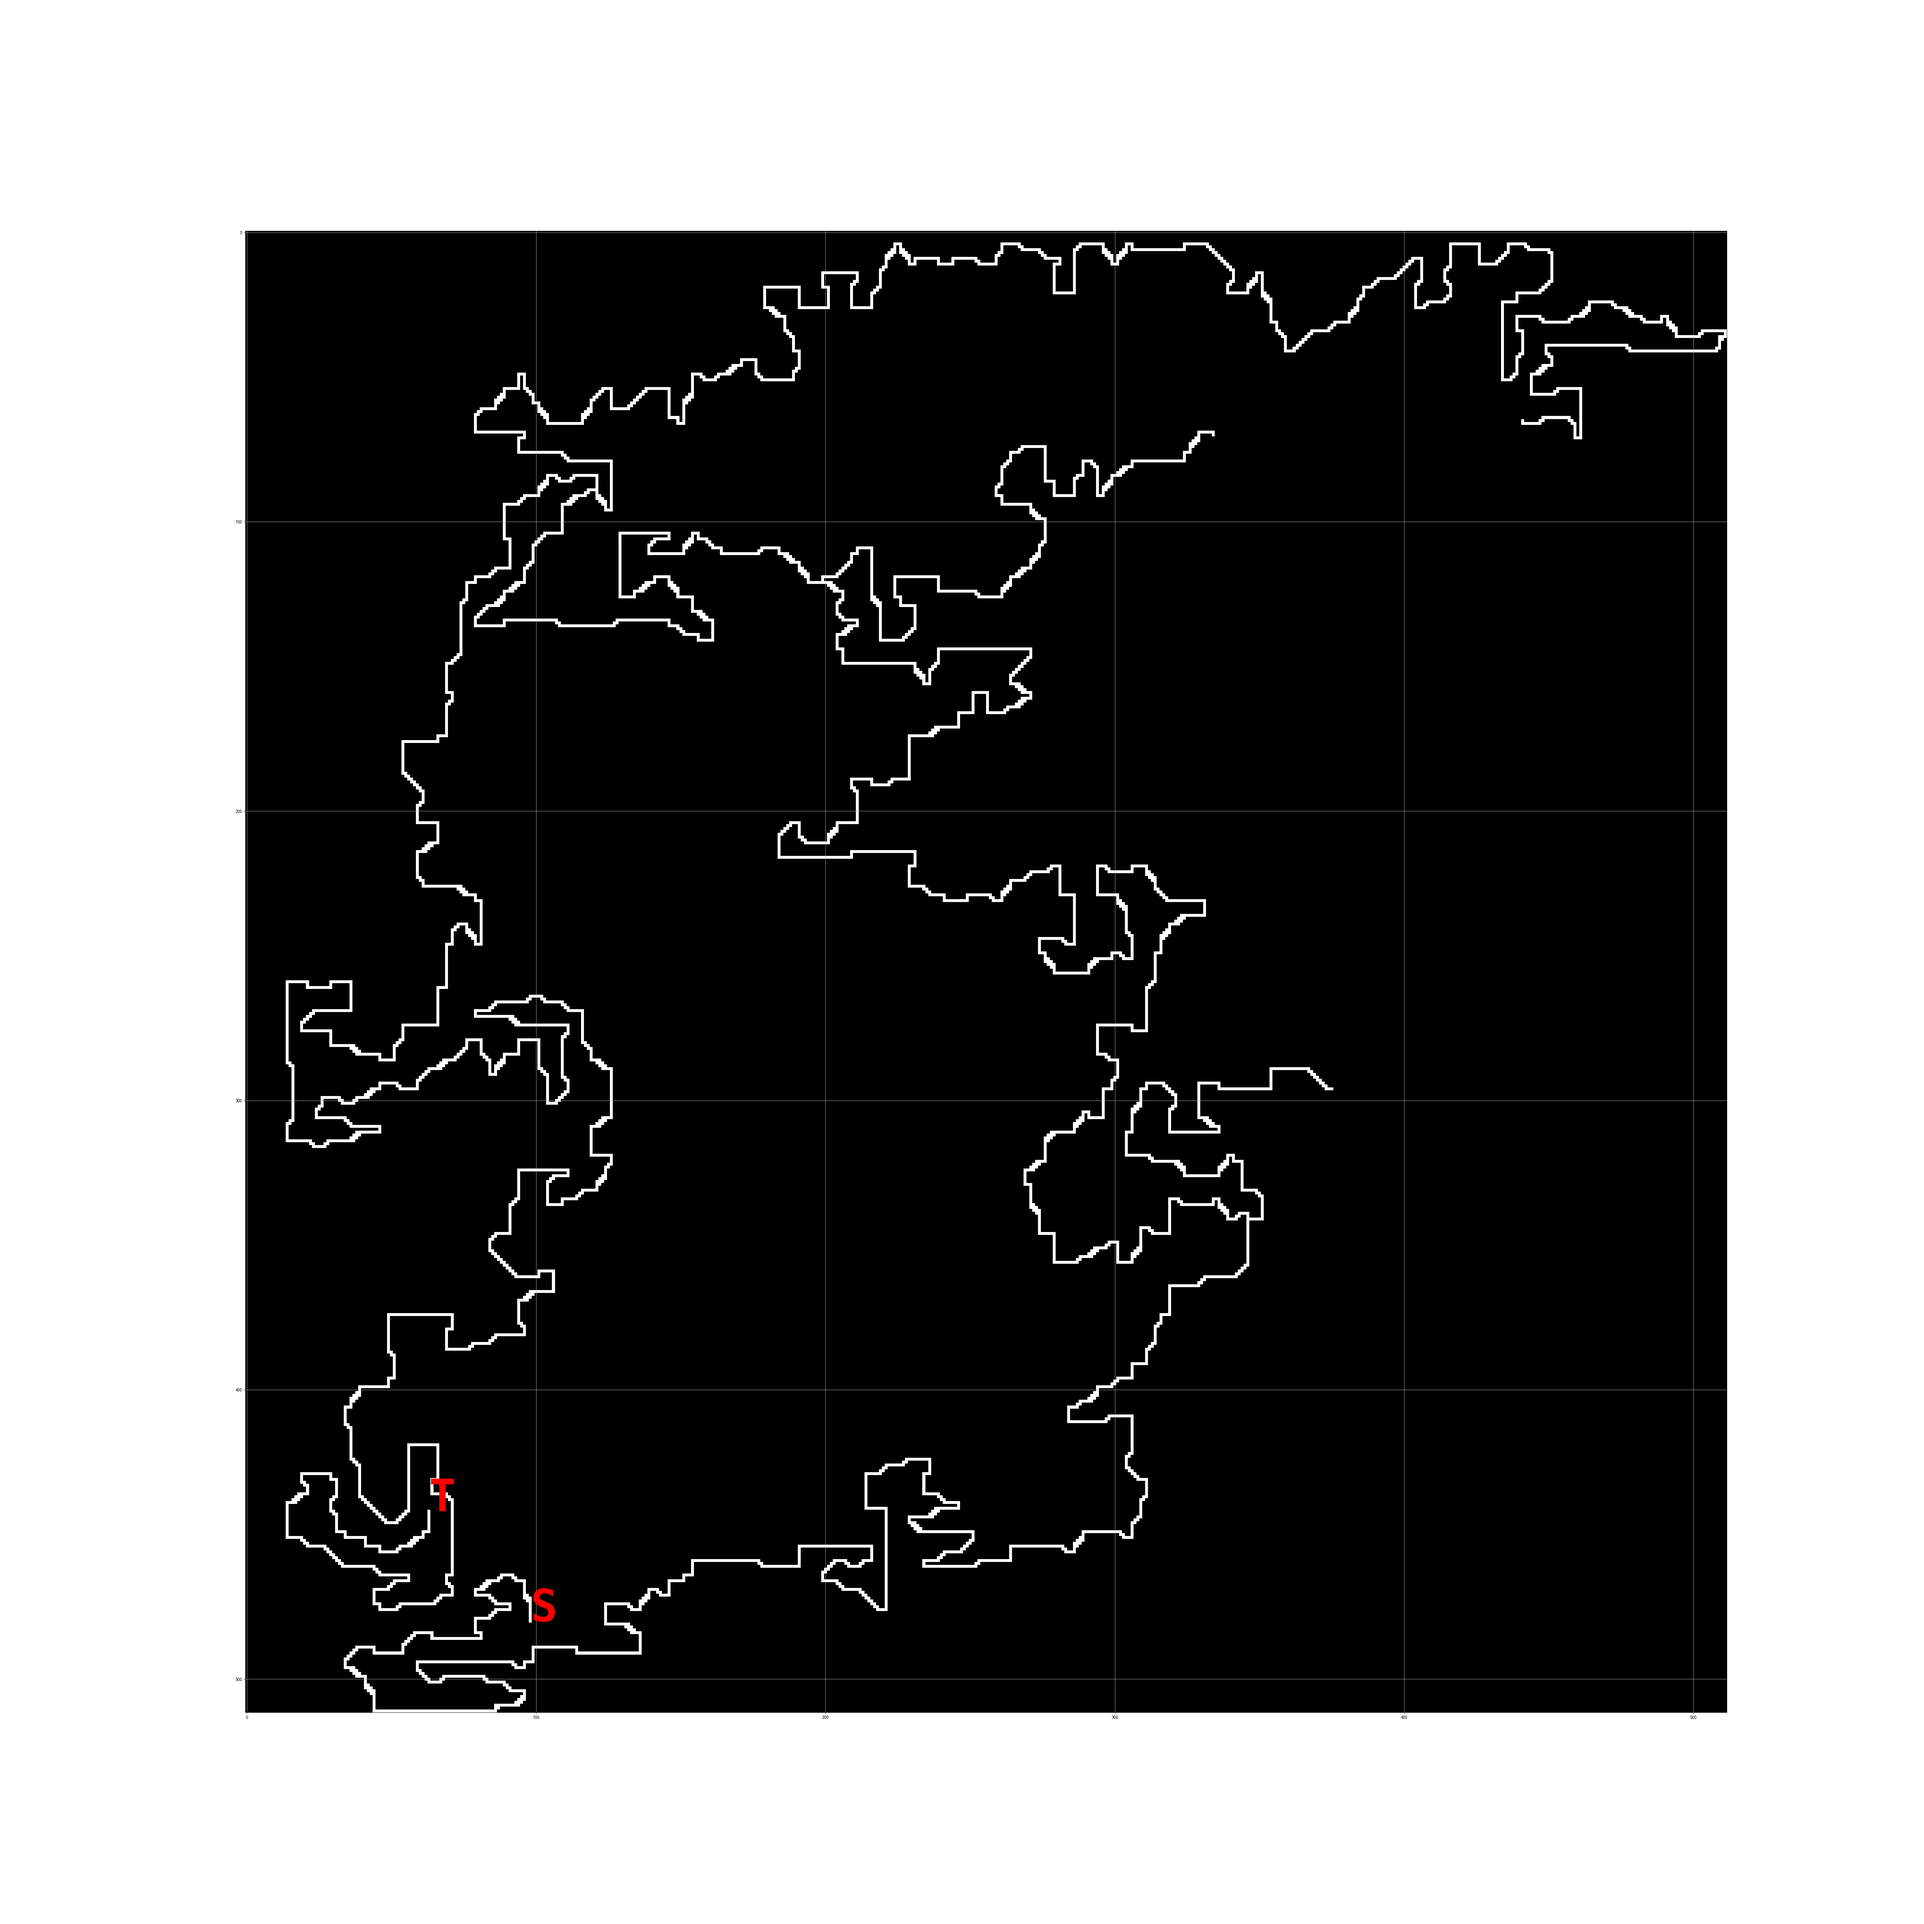
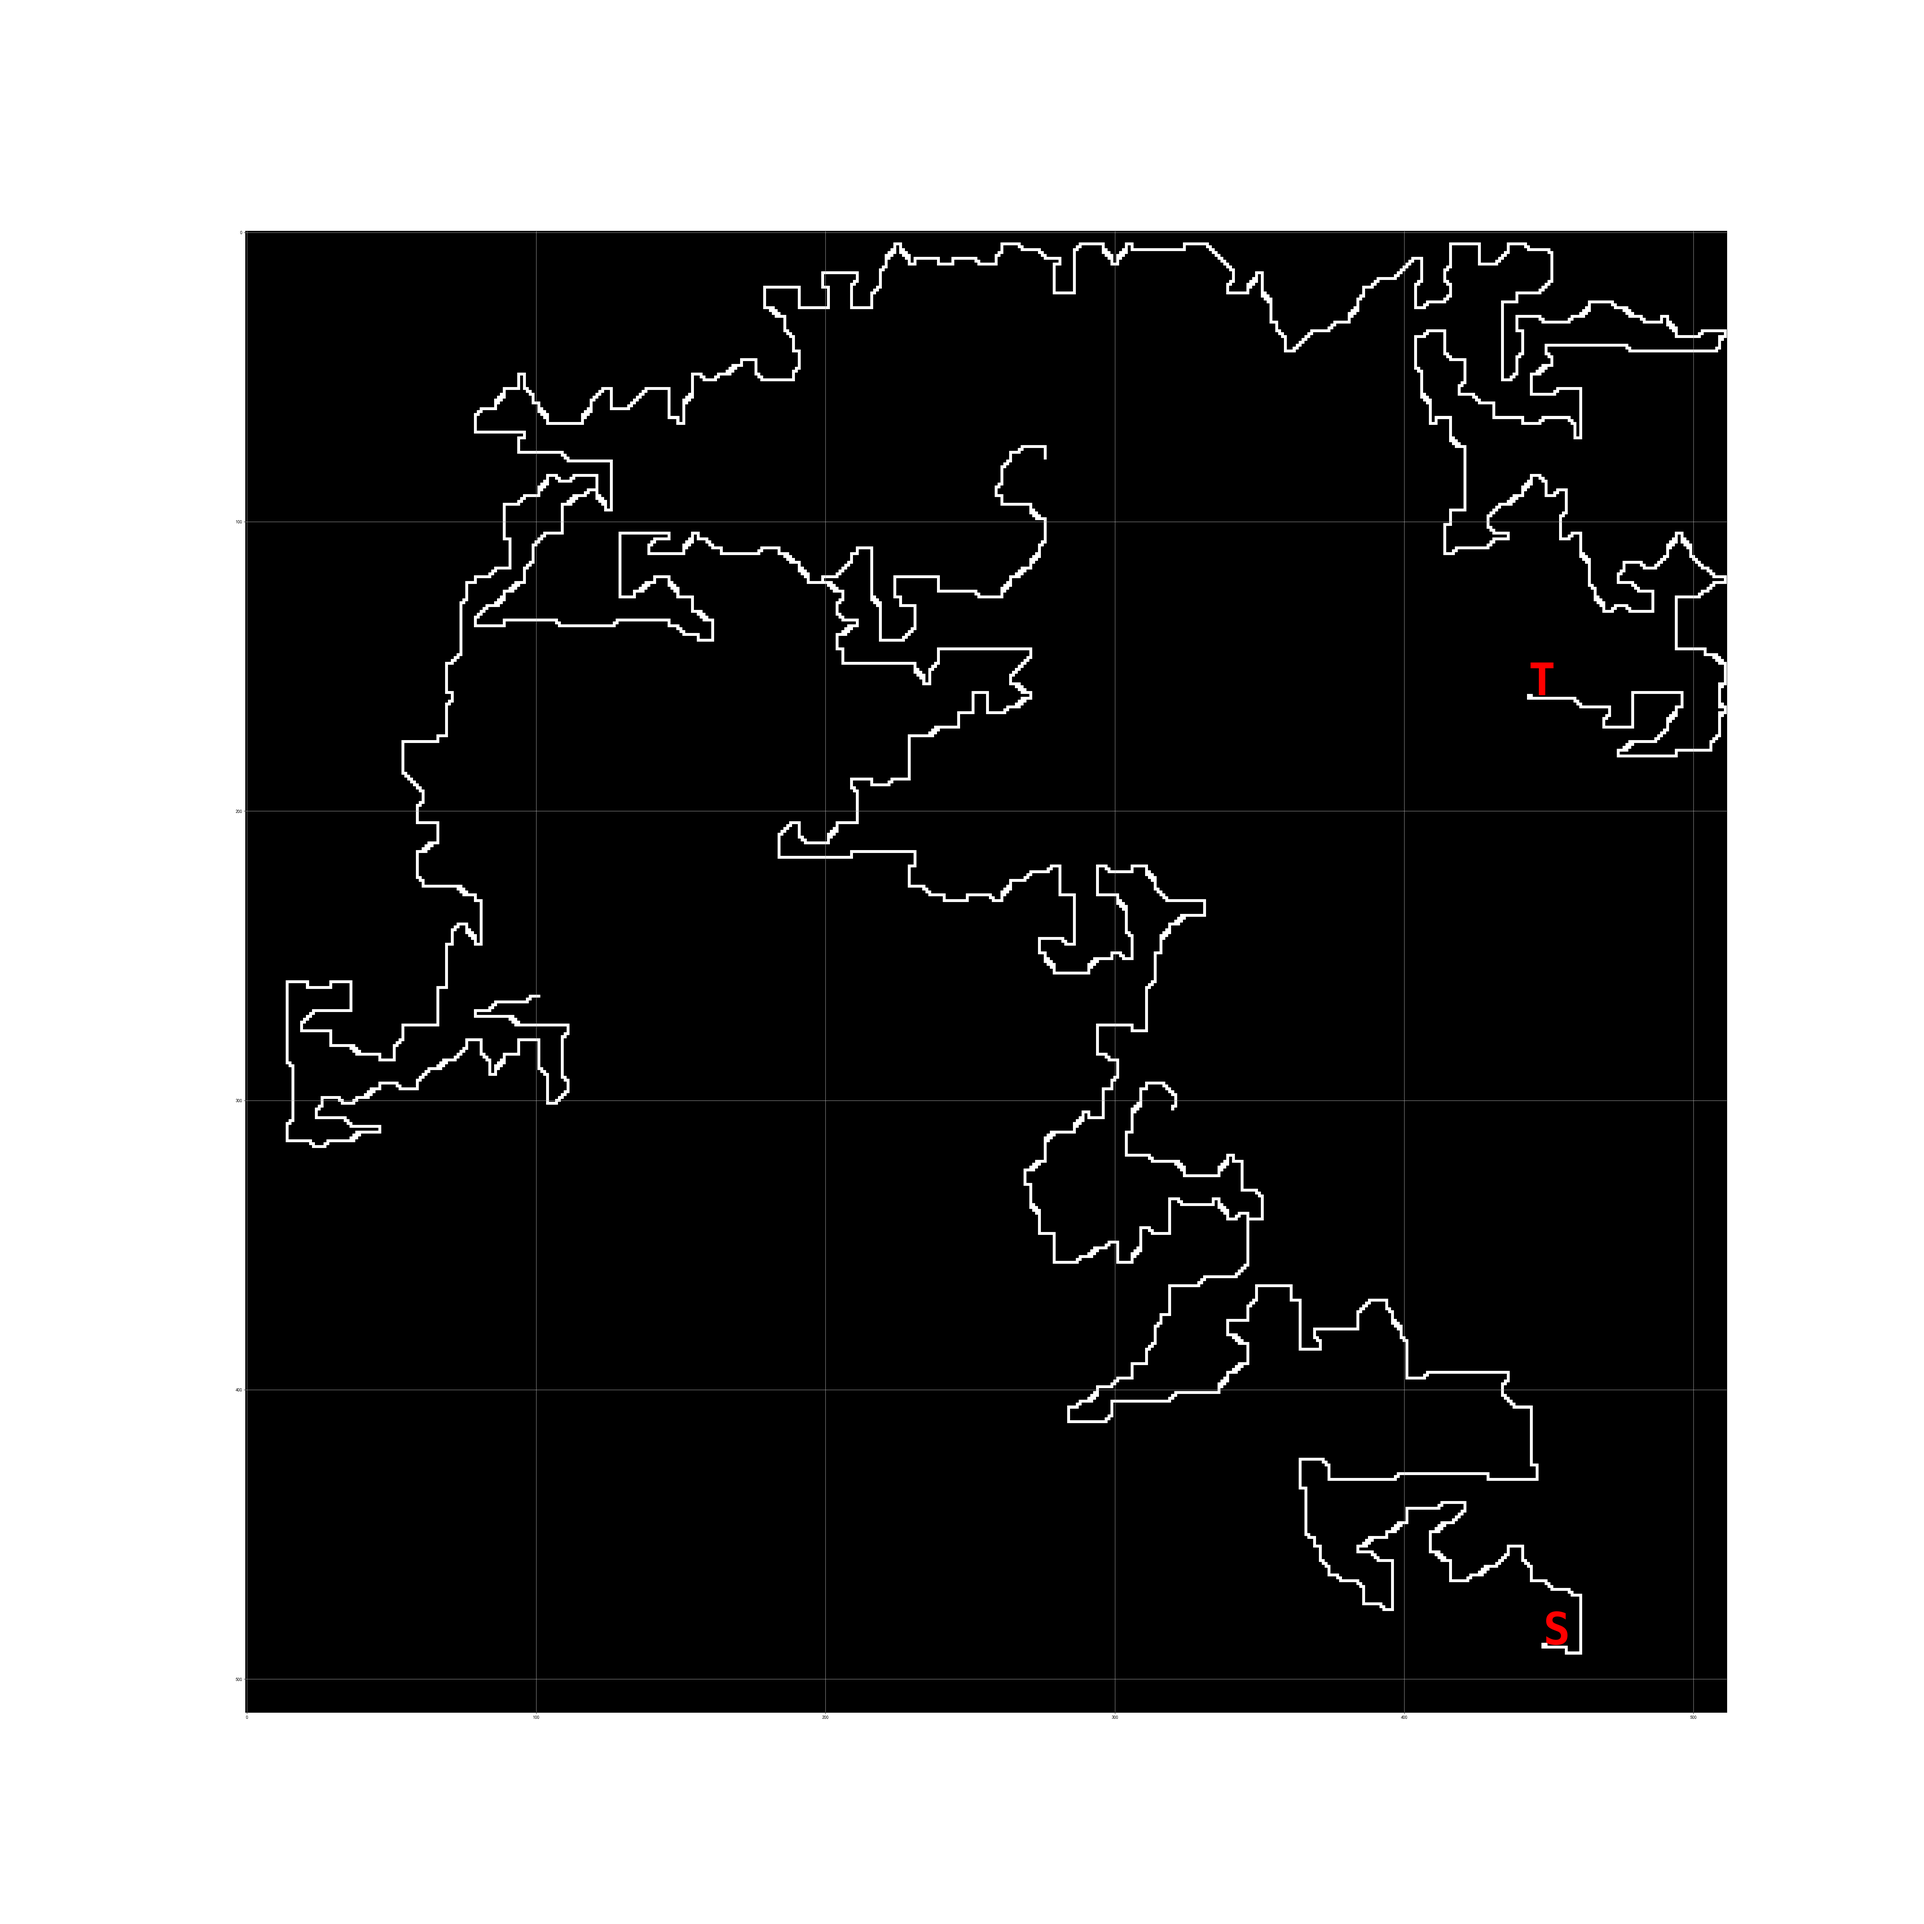
Added an implementation of the AStar algorithm

diff --git a/src/A_Star_Algorithm.py b/src/A_Star_Algorithm.py
@@ -1,0 +1,101 @@
+#!/usr/bin/env python
+# -*- coding: utf-8 -*-
+# @Time : 2024/5/30 14:22
+# @Author : Sunx
+# @Last Modified by: Sunx
+# @Software: PyCharm
+
+import heapq
+import math
+from collections import namedtuple
+
+class AStar:
+    def __init__(self, grid):
+        self.grid = grid
+        self.rows = len(grid)
+        self.cols = len(grid[0])
+        self.directions = [(0, 1), (1, 0), (0, -1), (-1, 0),
+                           (-1, 1), (1, 1), (1, -1), (-1, -1)]
+        self.Node = namedtuple('Node', ['x', 'y'])
+        print("rows: ", self.rows)
+        print("cols: ", self.cols)
+
+    def Euli_heuristic(self, sp, tp):
+        h = math.sqrt((sp[0] - tp[0]) ** 2 + (sp[1] - tp[1]) ** 2)
+        return h
+
+    def Manh_heuristic(self, sp, tp):
+        return math.fabs(tp[0] - sp[0]) + math.fabs(tp[1] - sp[1])
+
+    def Octi_heuristic(self, sp, tp):
+        h = math.sqrt(2)*min(math.fabs(tp[0] - sp[0]), math.fabs(tp[1] - sp[1]))
+        s = abs(abs(tp[0] - sp[0]) - abs(tp[0] - sp[0]))
+        return h + s
+
+    def Cheb_herustic(self, sp, tp):
+        return max(abs(tp[0] - sp[0]), abs(tp[1] - sp[1]))
+
+    def distance(self, sp, tp):
+        d = math.sqrt((sp[0] - tp[0]) ** 2 + (sp[1] - tp[1]) ** 2)
+        return d
+
+    def in_bounds_and_passable(self, x, y):
+        return 0 <= x < self.rows and 0 <= y < self.cols and self.grid[x][y] == 0
+
+    def neighbors(self, node):
+        for dx, dy in self.directions:
+            x, y = node.x + dx, node.y + dy
+            if self.in_bounds_and_passable(x, y):
+                yield self.Node(x, y)
+
+    def reconstruct_path(self, came_from, start, goal):
+        current = goal
+        path = []
+        while current != start:
+            path.append((current.x, current.y))
+            current = came_from[current]
+        path.append((start.x, start.y))
+        path.reverse()
+        return path
+
+    def search(self, start, goal):
+        start_node = self.Node(*start)
+        goal_node = self.Node(*goal)
+        frontier = []
+        heapq.heappush(frontier, (0, start_node))
+        came_from = {start_node: None}
+        cost_so_far = {start_node: 0}
+
+        while frontier:
+            cost, current = heapq.heappop(frontier)
+
+            if current == goal_node:
+                cost = cost
+                return cost, self.reconstruct_path(came_from, start_node, goal_node)
+
+            current_cost = cost_so_far[current]
+            for next_node in self.neighbors(current):
+                new_cost = current_cost + self.distance(next_node, current)
+                if next_node not in cost_so_far or new_cost < cost_so_far[next_node]:
+                    cost_so_far[next_node] = new_cost
+                    priority = new_cost + self.Euli_heuristic(next_node, goal_node)
+                    heapq.heappush(frontier, (priority, next_node))
+                    came_from[next_node] = current
+
+        return None  # return None if no path is found
+
+# Example usage:
+# if __name__ == "__main__":
+#     grid = [
+#         [0, 1, 0, 0, 0],
+#         [0, 1, 0, 1, 0],
+#         [0, 0, 0, 1, 0],
+#         [0, 1, 0, 0, 0],
+#         [0, 0, 0, 1, 0]
+#     ]
+#
+#     astar = AStar(grid)
+#     start = (0, 0)
+#     goal = (4, 4)
+#     path = astar.search(start, goal)
+#     print("Path found:", path)

diff --git a/src/PBGG.py b/src/PBGG.py
@@ -12,6 +12,7 @@ import numpy as np
 import matplotlib.pyplot as plt
 from matplotlib import colors
 import time
+from A_Star_Algorithm import AStar
 
 def LoadMap2Tensor(filename):
     '''
@@ -24,6 +25,13 @@ def LoadMap2Tensor(filename):
     return map_tensor
 
 def PatternMatch(X, Kernel, bias, conv):
+    '''
+    :param X:
+    :param Kernel:
+    :param bias:
+    :param conv:
+    :return:
+    '''
     device = 'cuda'
     X = X.to(device)
     Kernel = Kernel.to(device)
@@ -226,12 +234,22 @@ def drawPicture(img, filename, start, target):
     plt.show()
     plt.close()
 
+def transform_map(map):
+    '''
+    :param map:
+    :return: grid
+    '''
+    grid[grid == 1] = 0     # 所有为1的部分转化为0
+    grid[grid == -1] = 1    # 所有为-1的元素转换为1
+    return grid
+
+
 if __name__ == "__main__":
     filename = "../map_txt/maze512-4-4_copy.txt"
     MapTensor = LoadMap2Tensor(filename)
     torch.cuda.device('cuda')
-    start = [480, 98]
-    target = [442, 63]
+    start = (488, 448)
+    target = (160, 443)
     maxIter = (MapTensor.shape[1] + MapTensor.shape[2]) // 8
     kernel4N, bias4N = init_4N_kernels()
     drawPicture(MapTensor, "maze512-4-4_copy", start, target)
@@ -247,3 +265,14 @@ if __name__ == "__main__":
     time2 = time.time()
     print("PBGG 8N:", time2-time1, " ms")
     drawPicture(M, "maze512-4-4_copy_after_8N", start, target)
+
+    grid = torch.squeeze(MapTensor).cpu().numpy()
+    grid = transform_map(grid)
+    print(grid)
+
+    astar = AStar(grid)
+    time1 = time.time()
+    path = astar.search(start, target)
+    time2 = time.time()
+    print("astar:", time2 - time1, " ms")
+    print("path: ", path)
